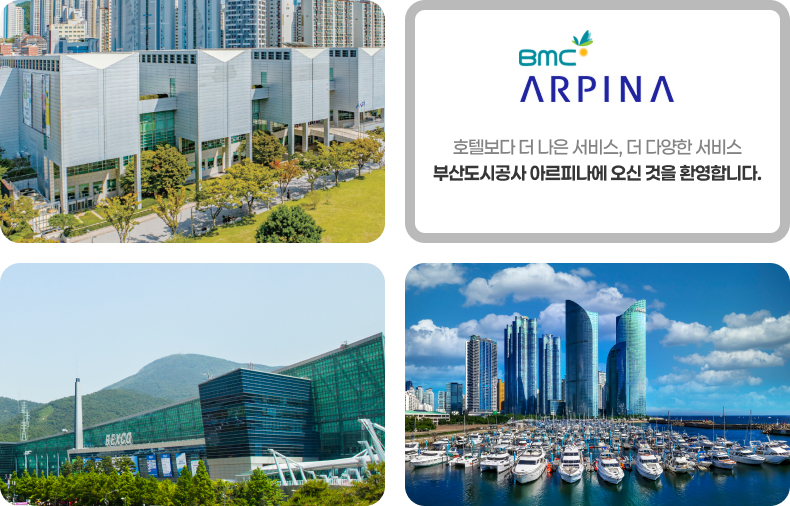
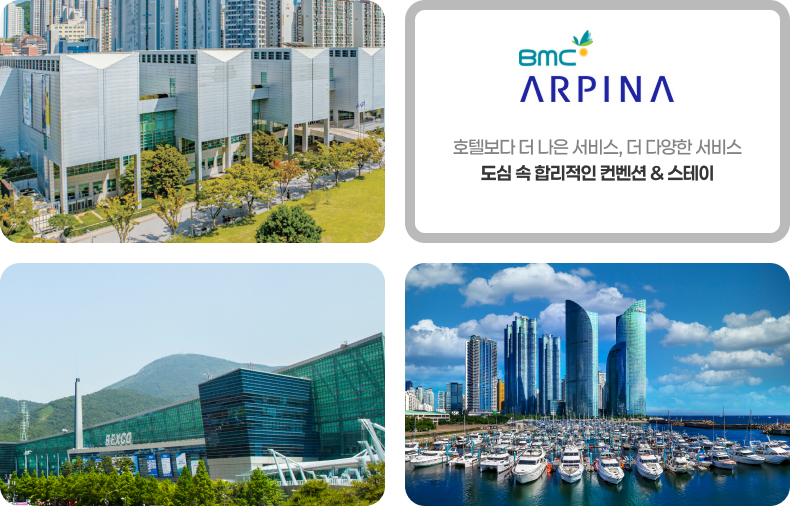
Modification final completed

Changed region(s): [[0.5468, 0.3261, 0.9722, 0.3557]]

diff --git a/src/app/(public)/arpina/intro/page.tsx b/src/app/(public)/arpina/intro/page.tsx
@@ -179,26 +179,36 @@ export default function ParticipantsPage() {
       <IntroSection
         number="01"
         title="아르피나 소개"
-        description="부산의 자연환경과 다양한 문화시설이 조화롭게 공존하는 이곳 해운대아르피나 에서 항상 고객을 최우선으로 생각하는 부산도시공사 아르피나에서 편안함과 즐거움을 찾아가시기 바랍니다."
+        description={`광안리 · 해운대 · 센텀시티를 잇는 이상적인 허브
+        도심 속 합리적인 컨벤션 & 스테이
+        '아름답게 피어나다'라는 뜻을 지닌 아르피나는 광안리, 해운대, 부산전시컨벤션센터(BEXCO), 센텀시티, 마린시티의 중앙에 위치하고 있어 관광과 해양 레저, 고품격 쇼핑은물론 비즈니스와 워케이션까지 진행할 수 있는 최적의 공간입니다. 다양한 타입의 객실과 회의실, 스포츠센터를 갖춘 아르피나에서 여유로운 시간을 즐겨보시기 바랍니다.
+        `}
         imageSrc="/images/contents/intro_img01.jpg"
         imageAlt="아르피나 소개 이미지"
       />
 
       <IntroSection
         number="02"
-        title="아르피나 위치"
-        description="부산의 자연환경과 다양한 문화시설이 조화롭게 공존하는 이곳 해운대아르피나 에서 항상 고객을 최우선으로 생각하는 부산도시공사 아르피나에서 편안함과 즐거움을 찾아가시기 바랍니다."
+        title="아르피나 시설"
+        description="부산도시공사 아르피나는 고객의 편의를 위해 다양한 객실과 회의실은 물론, 스포츠센터,
+        커피라운지, 편의점, 예약제 대식당 등을 운영하고 있습니다. 청소년 문화센터에서는 청소년
+        들이 참여할 수 있는 다양한 수련 및 체험 활동도 마련되어 있습니다.
+        "
         imageSrc="/images/contents/intro_img02.jpg"
-        imageAlt="아르피나 위치 이미지"
+        imageAlt="아르피나 시설 이미지"
         reverse={true}
       />
 
       <IntroSection
         number="03"
-        title="아르피나 시설"
-        description="부산의 자연환경과 다양한 문화시설이 조화롭게 공존하는 이곳 해운대아르피나 에서 항상 고객을 최우선으로 생각하는 부산도시공사 아르피나에서 편안함과 즐거움을 찾아가시기 바랍니다."
+        title="아르피나 입지"
+        description="수영만 요트경기장, 광안리, 해운대에 인접한 아르피나는 부산의 풍요로운 자연을
+        만끽하기에 최적의 공간입니다. 벡스코, 시립미술관, 센텀시티 대형 백화점 등 주요 문화·상업
+        시설과도 가까워 자연과 도심의 조화를 동시에 누릴 수 있습니다. 아르피나에서 여유롭고 특
+        별한 시간을 경험해보시기 바랍니다.
+        "
         imageSrc="/images/contents/intro_img03.jpg"
-        imageAlt="아르피나 시설 이미지"
+        imageAlt="아르피나 입지 이미지"
       />
 
       <Box className="intro-box" mb={{ base: 10, md: 15, lg: 20 }}>
